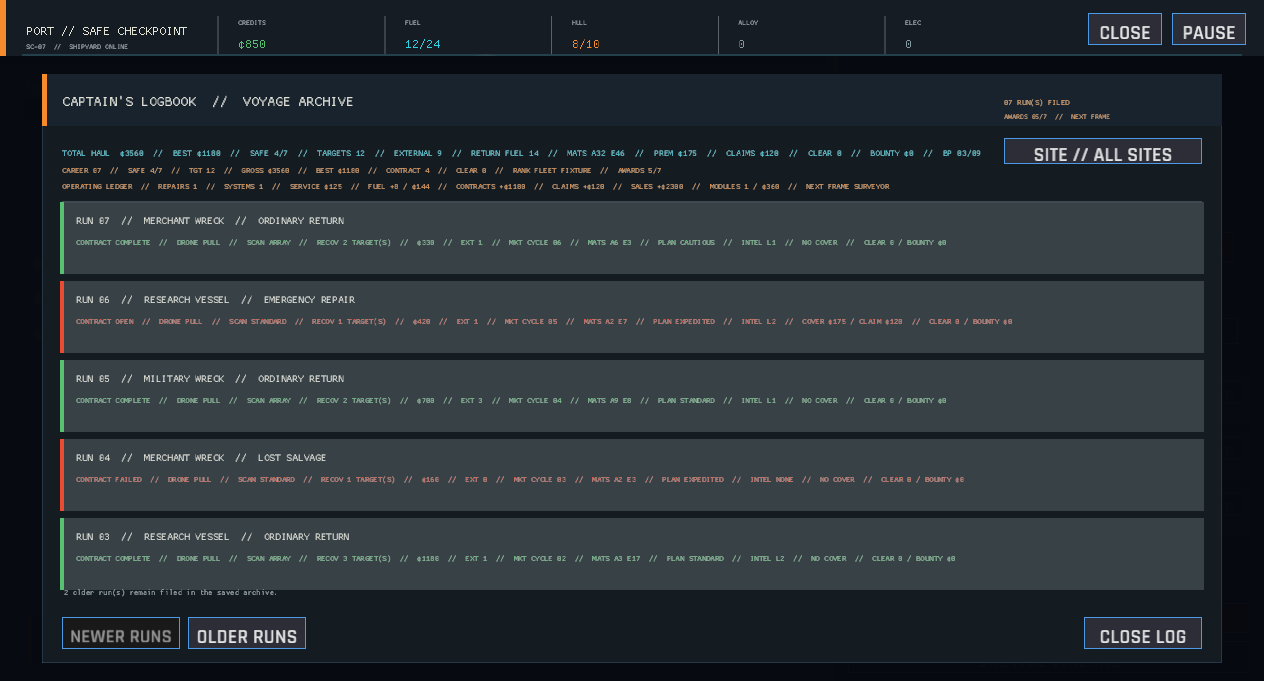
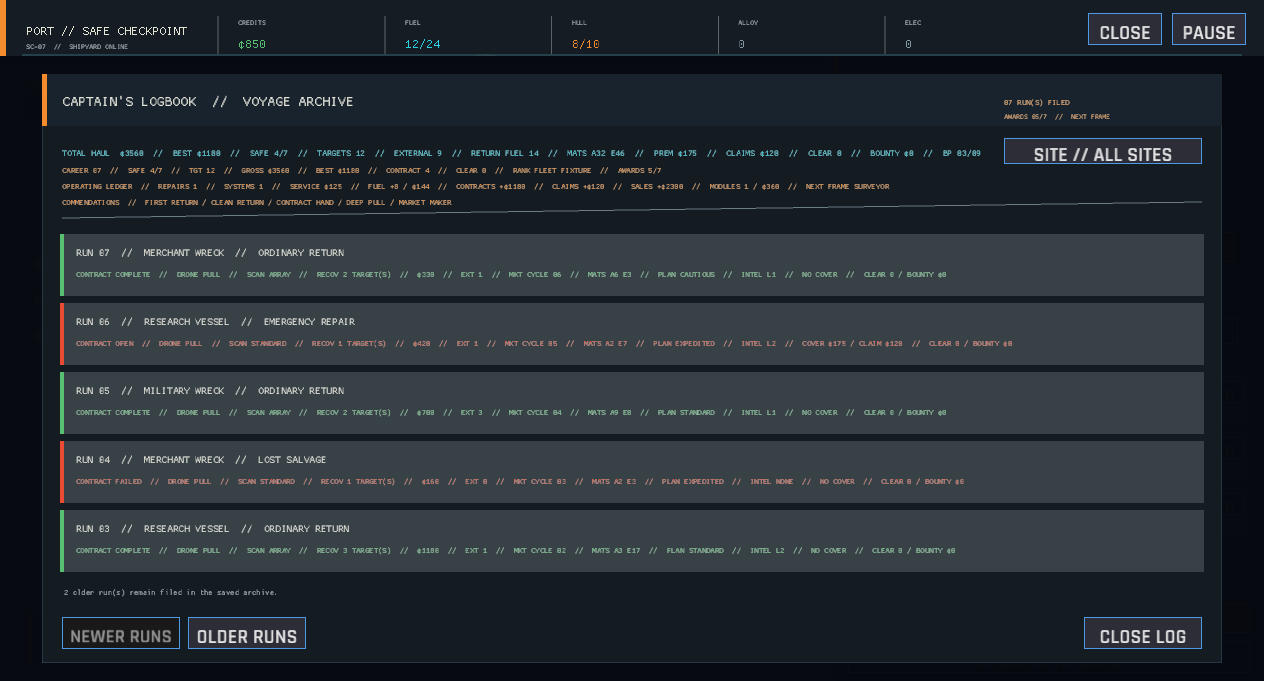
The captain's commendations stay filed beside every hard-earned name (award archive list)
The archive now lists every earned career award in a dedicated line while preserving five readable voyage rows and their touch targets. The layout uses compact spacing only where needed, with tests covering the rendered award list.

diff --git a/src/ui/voyage_archive.rs b/src/ui/voyage_archive.rs
@@ -136,6 +136,13 @@ pub fn draw_voyage_archive(ctx: &UiContext<'_>, actions: &mut Vec<UiAction>) {
         10.0,
         visual_theme::amber(),
     );
+    draw_text(
+        clipped(&career_awards_summary(&ctx.session.career), 150),
+        frame.x + 20.0,
+        frame.y + 131.0,
+        10.0,
+        visual_theme::amber(),
+    );
     if button(
         ctx,
         Rect::new(frame.right() - 218.0, frame.y + 64.0, 198.0, 26.0),
@@ -147,7 +154,7 @@ pub fn draw_voyage_archive(ctx: &UiContext<'_>, actions: &mut Vec<UiAction>) {
     }
     draw_line(
         frame.x + 20.0,
-        frame.y + 128.0,
+        frame.y + 144.0,
         frame.right() - 20.0,
         frame.y + 128.0,
         1.0,
@@ -185,8 +192,8 @@ pub fn draw_voyage_archive(ctx: &UiContext<'_>, actions: &mut Vec<UiAction>) {
             visual_theme::text_dim(),
         );
     } else {
-        let row_top = frame.y + 128.0;
-        let row_height = ((frame.h - 174.0) / ARCHIVE_PAGE_SIZE as f32).clamp(54.0, 72.0);
+        let row_top = frame.y + 160.0;
+        let row_height = ((frame.h - 210.0) / ARCHIVE_PAGE_SIZE as f32).clamp(54.0, 62.0);
         let (page_offset, page_end) =
             archive_page(filtered_records.len(), ctx.voyage_archive_offset);
         for (index, entry) in filtered_records
@@ -396,6 +403,21 @@ fn career_operations_summary(stats: &CareerStats) -> String {
         stats.module_changes,
         stats.module_spend,
         next,
+    )
+}
+
+fn career_awards_summary(stats: &CareerStats) -> String {
+    let awards = stats.earned_awards();
+    if awards.is_empty() {
+        return "COMMENDATIONS  //  NONE FILED".to_owned();
+    }
+    format!(
+        "COMMENDATIONS  //  {}",
+        awards
+            .iter()
+            .map(|award| award.label())
+            .collect::<Vec<_>>()
+            .join(" / ")
     )
 }
 

diff --git a/src/ui/voyage_archive/tests.rs b/src/ui/voyage_archive/tests.rs
@@ -116,6 +116,10 @@ fn career_summary_names_the_lifetime_dossier() {
         career_operations_summary(&stats),
         "OPERATING LEDGER  //  REPAIRS 2  //  SYSTEMS 2  //  SERVICE ¢195  //  FUEL +12 / ¢216  //  CONTRACTS +¢180  //  CLAIMS +¢120  //  SALES +¢240  //  MODULES 1 / ¢360  //  NEXT MARKET MAKER"
     );
+    assert_eq!(
+        career_awards_summary(&stats),
+        "COMMENDATIONS  //  FIRST RETURN / CLEAN RETURN / CONTRACT HAND / DEEP PULL / FRAME SURVEYOR / SYSTEMS VETERAN"
+    );
 }
 
 #[test]
